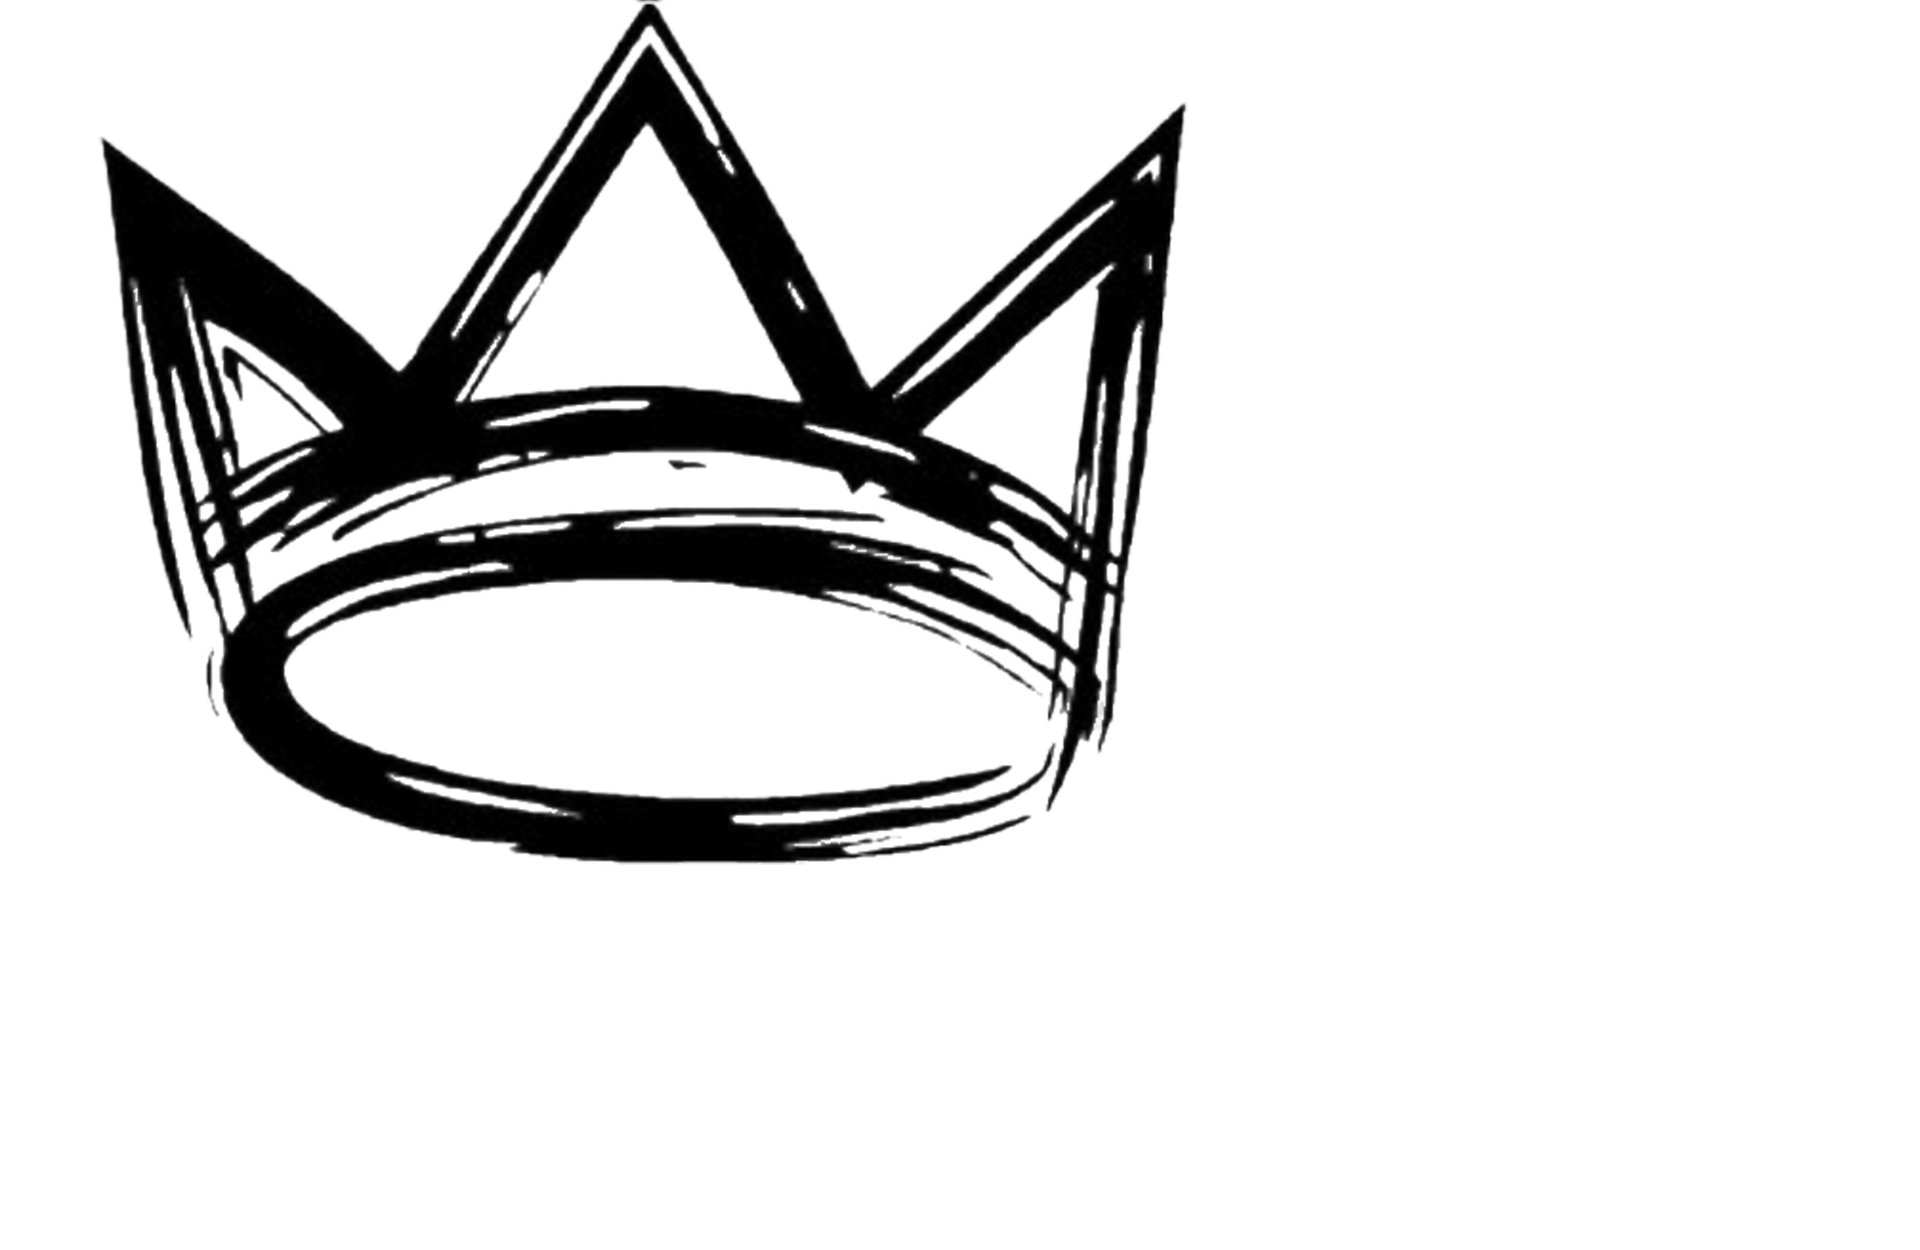
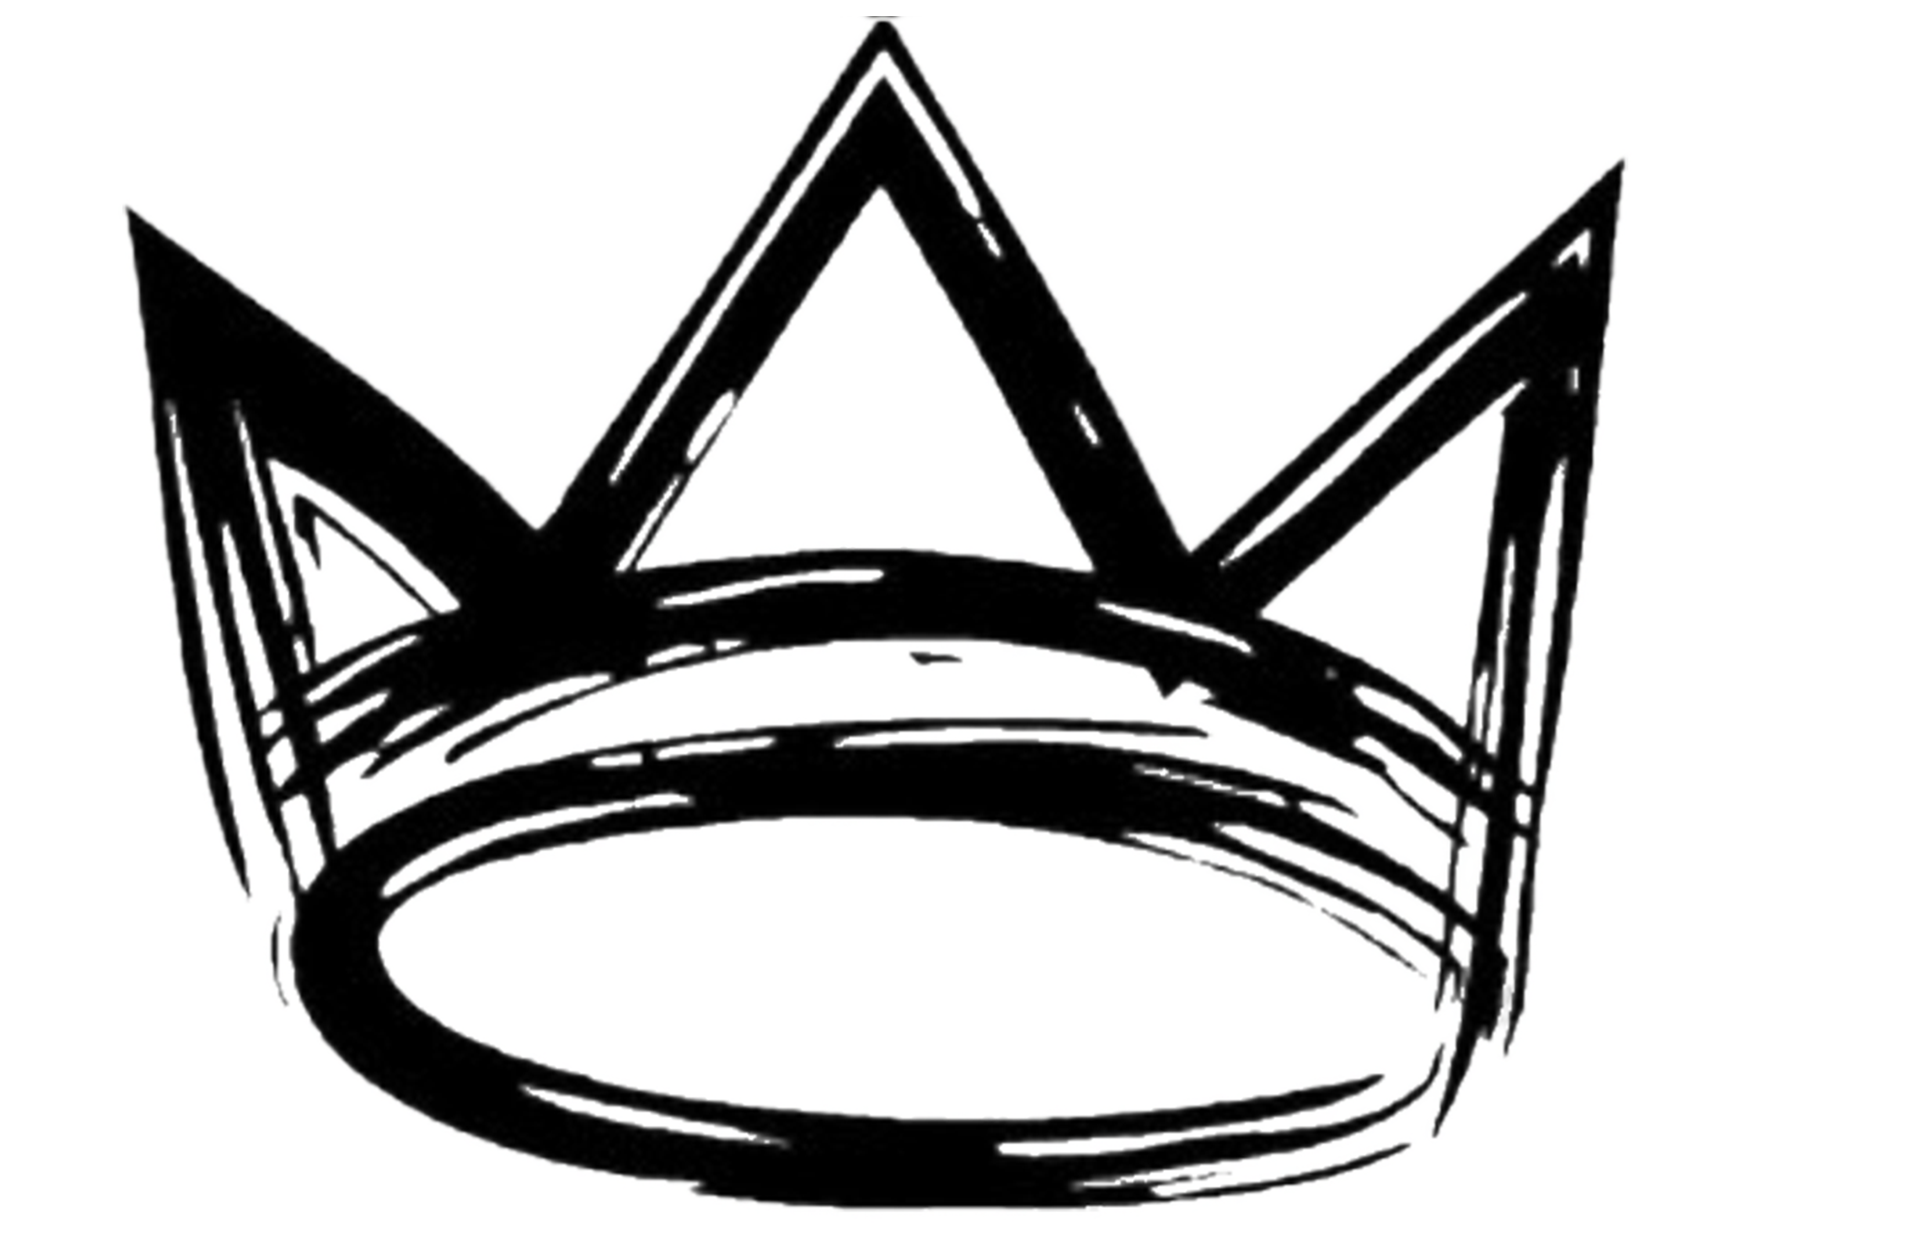
updated hero

Changed region(s): [[0.0312, 0.0, 0.8438, 0.9672]]

diff --git a/src/components/Nav.vue b/src/components/Nav.vue
@@ -2,11 +2,14 @@
     <header :class="{ 'scrolled-nav' : scrolledNav }">
         <nav>
             <div class="branding">
-                <img src="../assets/crown1.png" alt="">
+                    <router-link class="branding" :to="{name: 'Home'}">
+                        <img src="../assets/crown1.png" alt="">
+                        <h4>Rojasking700</h4>
+                    </router-link>
             </div>
             <ul v-show="!mobile" class="navigation">
                 <li><router-link class="link" :to="{name: 'Home'}">Home</router-link></li>
-                <li><router-link class="link" :to="{name: ''}">About</router-link></li>
+                <li><router-link class="link" :to="{name: 'About'}">About</router-link></li>
                 <li><router-link class="link" :to="{name: ''}">Portfolio</router-link></li>
                 <li><router-link class="link" :to="{name: ''}">Contact</router-link></li>
             </ul>
@@ -15,10 +18,12 @@
             </div>
             <transition name="mobile-nav">
                 <ul v-show="mobileNav" class="dropdown-nav">
-                    <li><router-link class="link" :to="{name: 'Home'}">Home</router-link></li>
-                    <li><router-link class="link" :to="{name: ''}">About</router-link></li>
-                    <li><router-link class="link" :to="{name: ''}">Portfolio</router-link></li>
-                    <li><router-link class="link" :to="{name: ''}">Contact</router-link></li>
+                    <div class="list">
+                        <li><router-link class="link" :to="{name: 'Home'}">Home</router-link></li>
+                        <li><router-link class="link" :to="{name: ''}">About</router-link></li>
+                        <li><router-link class="link" :to="{name: ''}">Portfolio</router-link></li>
+                        <li><router-link class="link" :to="{name: ''}">Contact</router-link></li>
+                    </div>
                 </ul>
             </transition>
         </nav>
@@ -77,22 +82,21 @@ export default {
         position: fixed;
         transition: .5s ease all;
         color: #fff;
+        text-shadow: 2px 2px black;
     }
 
     nav {
         position: relative;
-         display: flex;
-         flex-direction: row;
-         padding: 10px;
-         transition: .5s ease all;
-         width: 100%;
-         margin: 0 auto;
+        display: flex;
+        flex-direction: row;
+        justify-content: space-between;
+        padding: 10px;
+        transition: .5s ease all;
+        width: 100%;
+        font-size: 2vw;
+        margin: 0 auto;
     }
-    @media (min-width:1140px){
-        nav {
-            max-width: 1140px;
-        }
-    }
+    
 
     ul, .link{
         font-weight: 500;
@@ -108,7 +112,7 @@ export default {
     }
 
     .link {
-        font-size: 14px;
+        font-size: 1vw;
         transition: .5s ease all;
         padding-bottom: 4px;
         border-bottom: 1px solid transparent;
@@ -119,13 +123,29 @@ export default {
     }
 
     .branding{
+        color: #fff;
         display: flex;
         align-items: center;
+        flex-direction: row;
+        width: 100%;
+        font-size: 2vw;
+        text-decoration: none;
     }
 
     .branding img {
-        width: 50px;
+        /* position: absolute; */
+        width: 4.5vw;
+        transform: rotate(-30deg);
         transition: .5s ease all;
+    }
+    @media (max-width: 800px) {
+        .branding{
+            font-size: 4vw;
+        }
+        .branding img {
+            width: 6vw;
+        }
+        
     }
     
     .navigation{
@@ -142,7 +162,7 @@ export default {
         top: 0;
         right: 24px;
         height: 100%;
-
+        z-index: 101;
     }
 
     .icon i {
@@ -152,25 +172,39 @@ export default {
     }
 
     .icon-active {
-        transform: rotate(180deg);
+        transform: rotate(90deg);
+        color:black;
+        text-shadow: 2px 2px rgba(0, 0, 0, 0.212);
     }
     .dropdown-nav {
         display: flex;
         flex-direction: column;
         position: fixed;
         width: 100%;
-        max-width: 250px;
+        max-width: 33vw;
+        min-width: 150px;
         height: 100%;
         background-color: #fff;
         top:0;
-        left:0;
+        right:0;
     }
 
+    .dropdown-nav .list{
+        display: flex;
+        align-items: flex-end;
+        flex-direction: column;
+        position: absolute;
+        top: 30%;
+        right: 0;
+        padding: 5px;
+    }
     .dropdown-nav li {
         margin-left: 0;
     }
     .dropdown-nav li .link {
         color: #000;
+        font-size: 4vw;
+        text-shadow: none;
     }
 
      .mobile-nav-enter-active,
@@ -181,7 +215,7 @@ export default {
 
      .mobile-nav-enter-from,
      .mobile-nav-leave-to{
-        transform: translateX(-250px);
+        transform: translateX(250px);
     }
 
      .mobile-nav-enter-to {

diff --git a/src/components/Landing.vue b/src/components/Landing.vue
@@ -1,7 +1,10 @@
 <template>
 <main>
     <section class="landing">
-        <h1 class="big-text">Gabriel Rojas</h1>
+        <div class="big-text">
+        <h1 class="bitext">Gabriel Rojas</h1>
+        <p class="intro-par">"Design is a funny word. Some people think design means how it looks. But of course, if you dig deeper, it's really how it works" -Steve Jobs</p>
+        </div>
     </section>
 </main>
     <div class="intro">
@@ -31,7 +34,7 @@ export default {
 
         tl.to('.text', {y:'0%', duration:1 , stagger: 0.25})
         // tl.fromTo('.slider', {y:"-50%", x:"50%", width:"0%", height:"0%", }, {y:"50%",x:"-100%", width:"100vw", height:"100vh",  duration: 10, delay: 0.5})
-        tl.to('.intro', {y:"-100%", duration: 1})
+        tl.to('.intro', {y:"-120%", duration: 1})
         tl.fromTo('nav', {opacity:0}, {opacity: 1, duration: 1})
         tl.fromTo('.big-text', {opacity:0}, {opacity: 1, duration: 1},'=-0.5')
     }
@@ -39,30 +42,46 @@ export default {
 </script>
 
 <style>
-
+    @import url('https://fonts.googleapis.com/css2?family=Fjalla+One&display=swap');
     .landing{
-        background: url('../assets/wei-zeng-6KffRaLsClk-unsplash.jpg');
+        position: relative;
+        background: url('../assets/mark-rohan-vN7Cpe2MSf8-unsplash.jpg');
         background-size: cover;
+        background-position: center center;
         display: flex;
         justify-content: center;
         min-height: 100vh;
-        /* height: 100%;
-        width: 100%; */
-    }
-    
+        height: 100vh;
+        }
     .big-text{
+        margin: 3%;
+        font-family: 'Fjalla One', sans-serif;
         position: absolute;
         top:20%;
         left:25%;
-        transform: translate( -50%,-30%);
-        font-size:5rem;
-        color: #fff;
-        text-shadow: 4px 4px black;
+        font-size: 5vw;
+        color: rgb(255, 255, 255);
+        text-shadow: 3px 3px 4px rgb(0, 0, 0);
+        text-align: center;
+        transform: translate( -50%,-25%);
     }
-    @media (max-width: 800){
+    .intro-par{
+        display: flex;
+        justify-content: center;
+        font-size: 2vw;
+        width: 50%;
+        transform: translate( 45%, 0%);
+    }
+    @media (max-width: 800px){
         .big-text {
             top:30%;
             left:50%;
+            font-size: 15vw;
+        }
+        .intro-par{
+            width: 100%;
+            font-size: 5vw;
+            transform: translate(0,0);
         }
 
     }
@@ -95,9 +114,13 @@ export default {
         overflow: visible;
     }
     .intro-text{
+        padding: 80px;
         color: #fff;
         font-size: 3rem;
         text-align: center;
+    }
+    .text{
+        padding: 20px;
     }
     .hide{
         background: black;

diff --git a/public/index.html b/public/index.html
@@ -4,8 +4,8 @@
     <meta charset="utf-8">
     <meta http-equiv="X-UA-Compatible" content="IE=edge">
     <meta name="viewport" content="width=device-width,initial-scale=1.0">
-    <link rel="icon" href="<%= BASE_URL %>favicon.ico">
-    <title><%= htmlWebpackPlugin.options.title %></title>
+    <link rel="icon" href="../src/assets/crown1.png">
+    <title>Gabriel Rojas</title>
     <link
       rel="stylesheet"
       href="https://pro.fontawesome.com/releases/v5.15.3/css/all.css"

diff --git a/src/App.vue b/src/App.vue
@@ -16,7 +16,9 @@ export default {
 </script>
 
 <style>
+@import url('https://fonts.googleapis.com/css2?family=Fjalla+One&display=swap');
   *{
+    font-family: 'Fjalla One', sans-serif;
     padding: 0;
     margin: 0;
     box-sizing: border-box;
